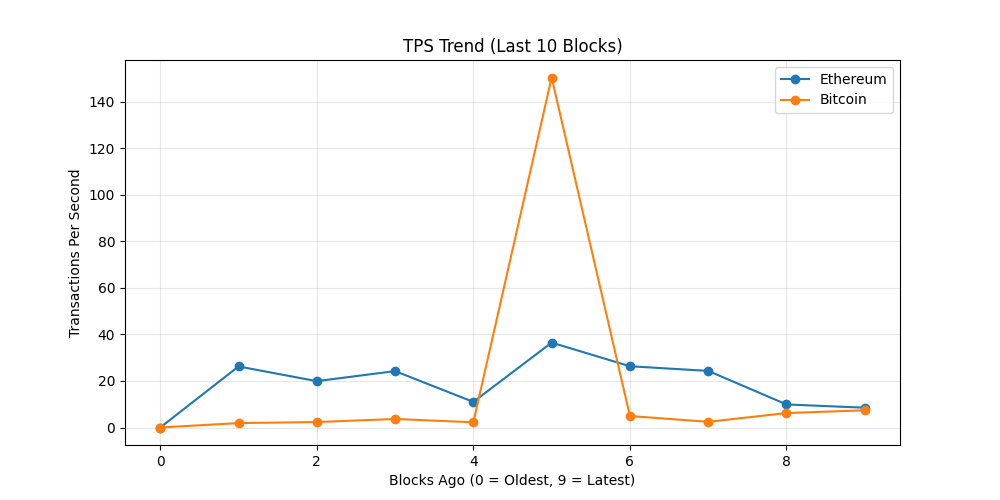
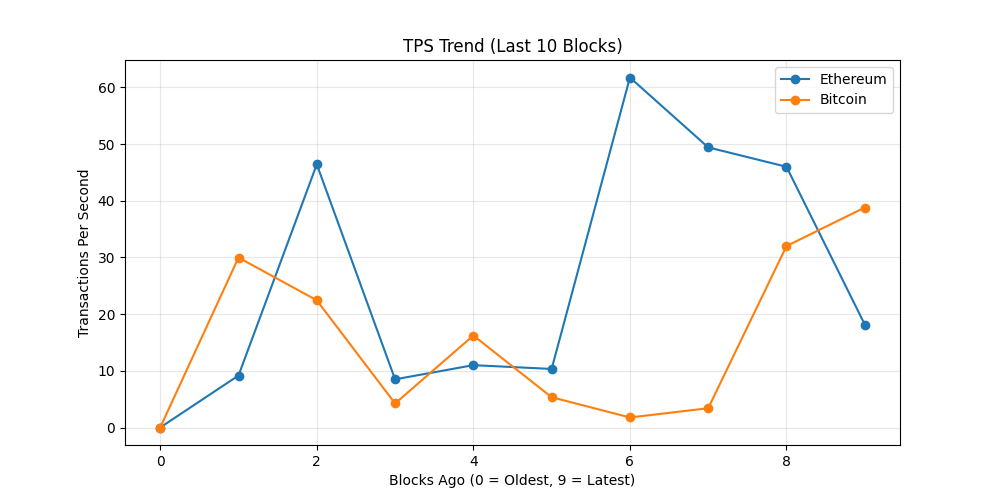
chore: update on-chain dashboard

diff --git a/README.md b/README.md
@@ -19,7 +19,7 @@ The README itself acts as the dashboard and is regenerated automatically on a 6 
 demonstrating a production-style, infrastructure-focused observability workflow rather
 than a traditional UI-driven approach.
 
-_Last updated: 2026-02-23 07:20 UTC_
+_Last updated: 2026-02-23 13:41 UTC_
 
 ## API Usage (GetBlock.io)
 - Calls used: **24**
@@ -27,8 +27,8 @@ _Last updated: 2026-02-23 07:20 UTC_
 ## Network Metrics
 | Chain | Block Height | TX Count | TPS (10 blk avg) | Block Util | Avg Fee |
 |------|-------------|----------|------------------|------------|---------|
-| Ethereum | 24518055 | 102 | 8.5 | 84.2% | 0.0 Gwei |
-| Bitcoin | 937930 | 4442 | 7.39 | 99.8% | N/A |
+| Ethereum | 24519953 | 218 | 18.17 | 33.65% | 0.1 Gwei |
+| Bitcoin | 937971 | 4385 | 38.81 | 99.79% | N/A |
 
 ## Visuals
 ### Transactions Trend
@@ -43,11 +43,8 @@ _Last updated: 2026-02-23 07:20 UTC_
 ## Whale Alerts (latest block)
 - Transaction hashes are truncated for readability.
 - Full hashes are available in `dashboards/metrics.json`
-- Bitcoin | 154.54 BTC | `0023e9522654…`
-- Bitcoin | 2633.61 BTC | `bf49504d549a…`
-- Bitcoin | 206.82 BTC | `b2e564af0fd0…`
-- Bitcoin | 100.65 BTC | `7c576d38bd1d…`
-- Bitcoin | 187.02 BTC | `aa5c3252613b…`
+- Bitcoin | 422.09 BTC | `8a672eefa09c…`
+- Bitcoin | 606.58 BTC | `73f7e2ea1fef…`
 
 ## Run locally
 
